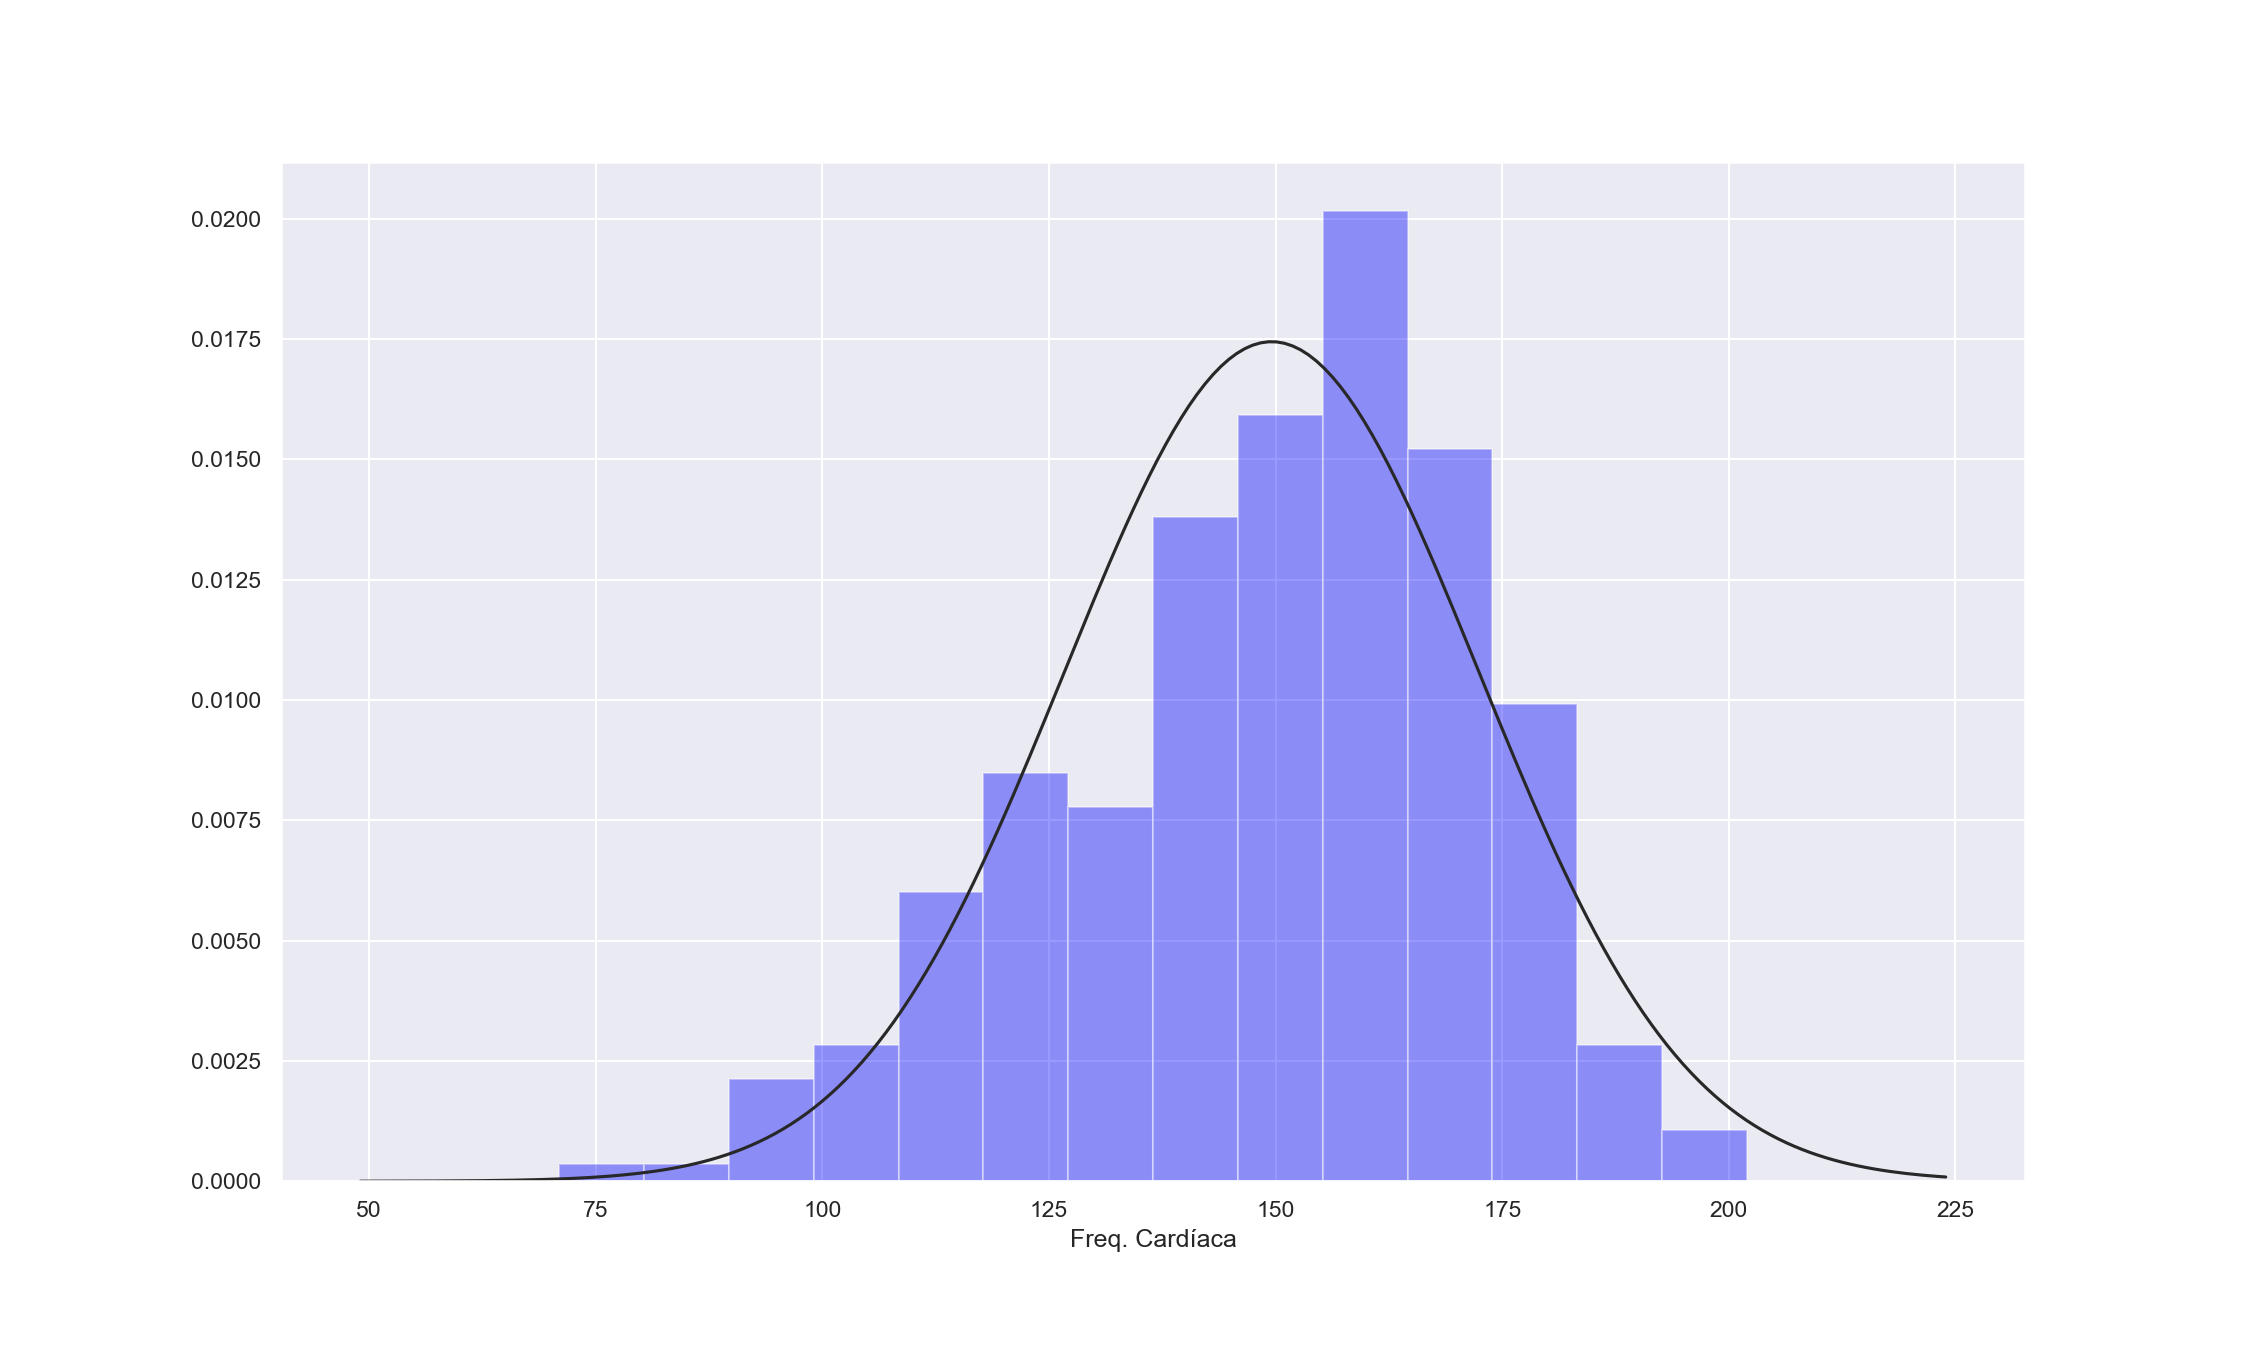
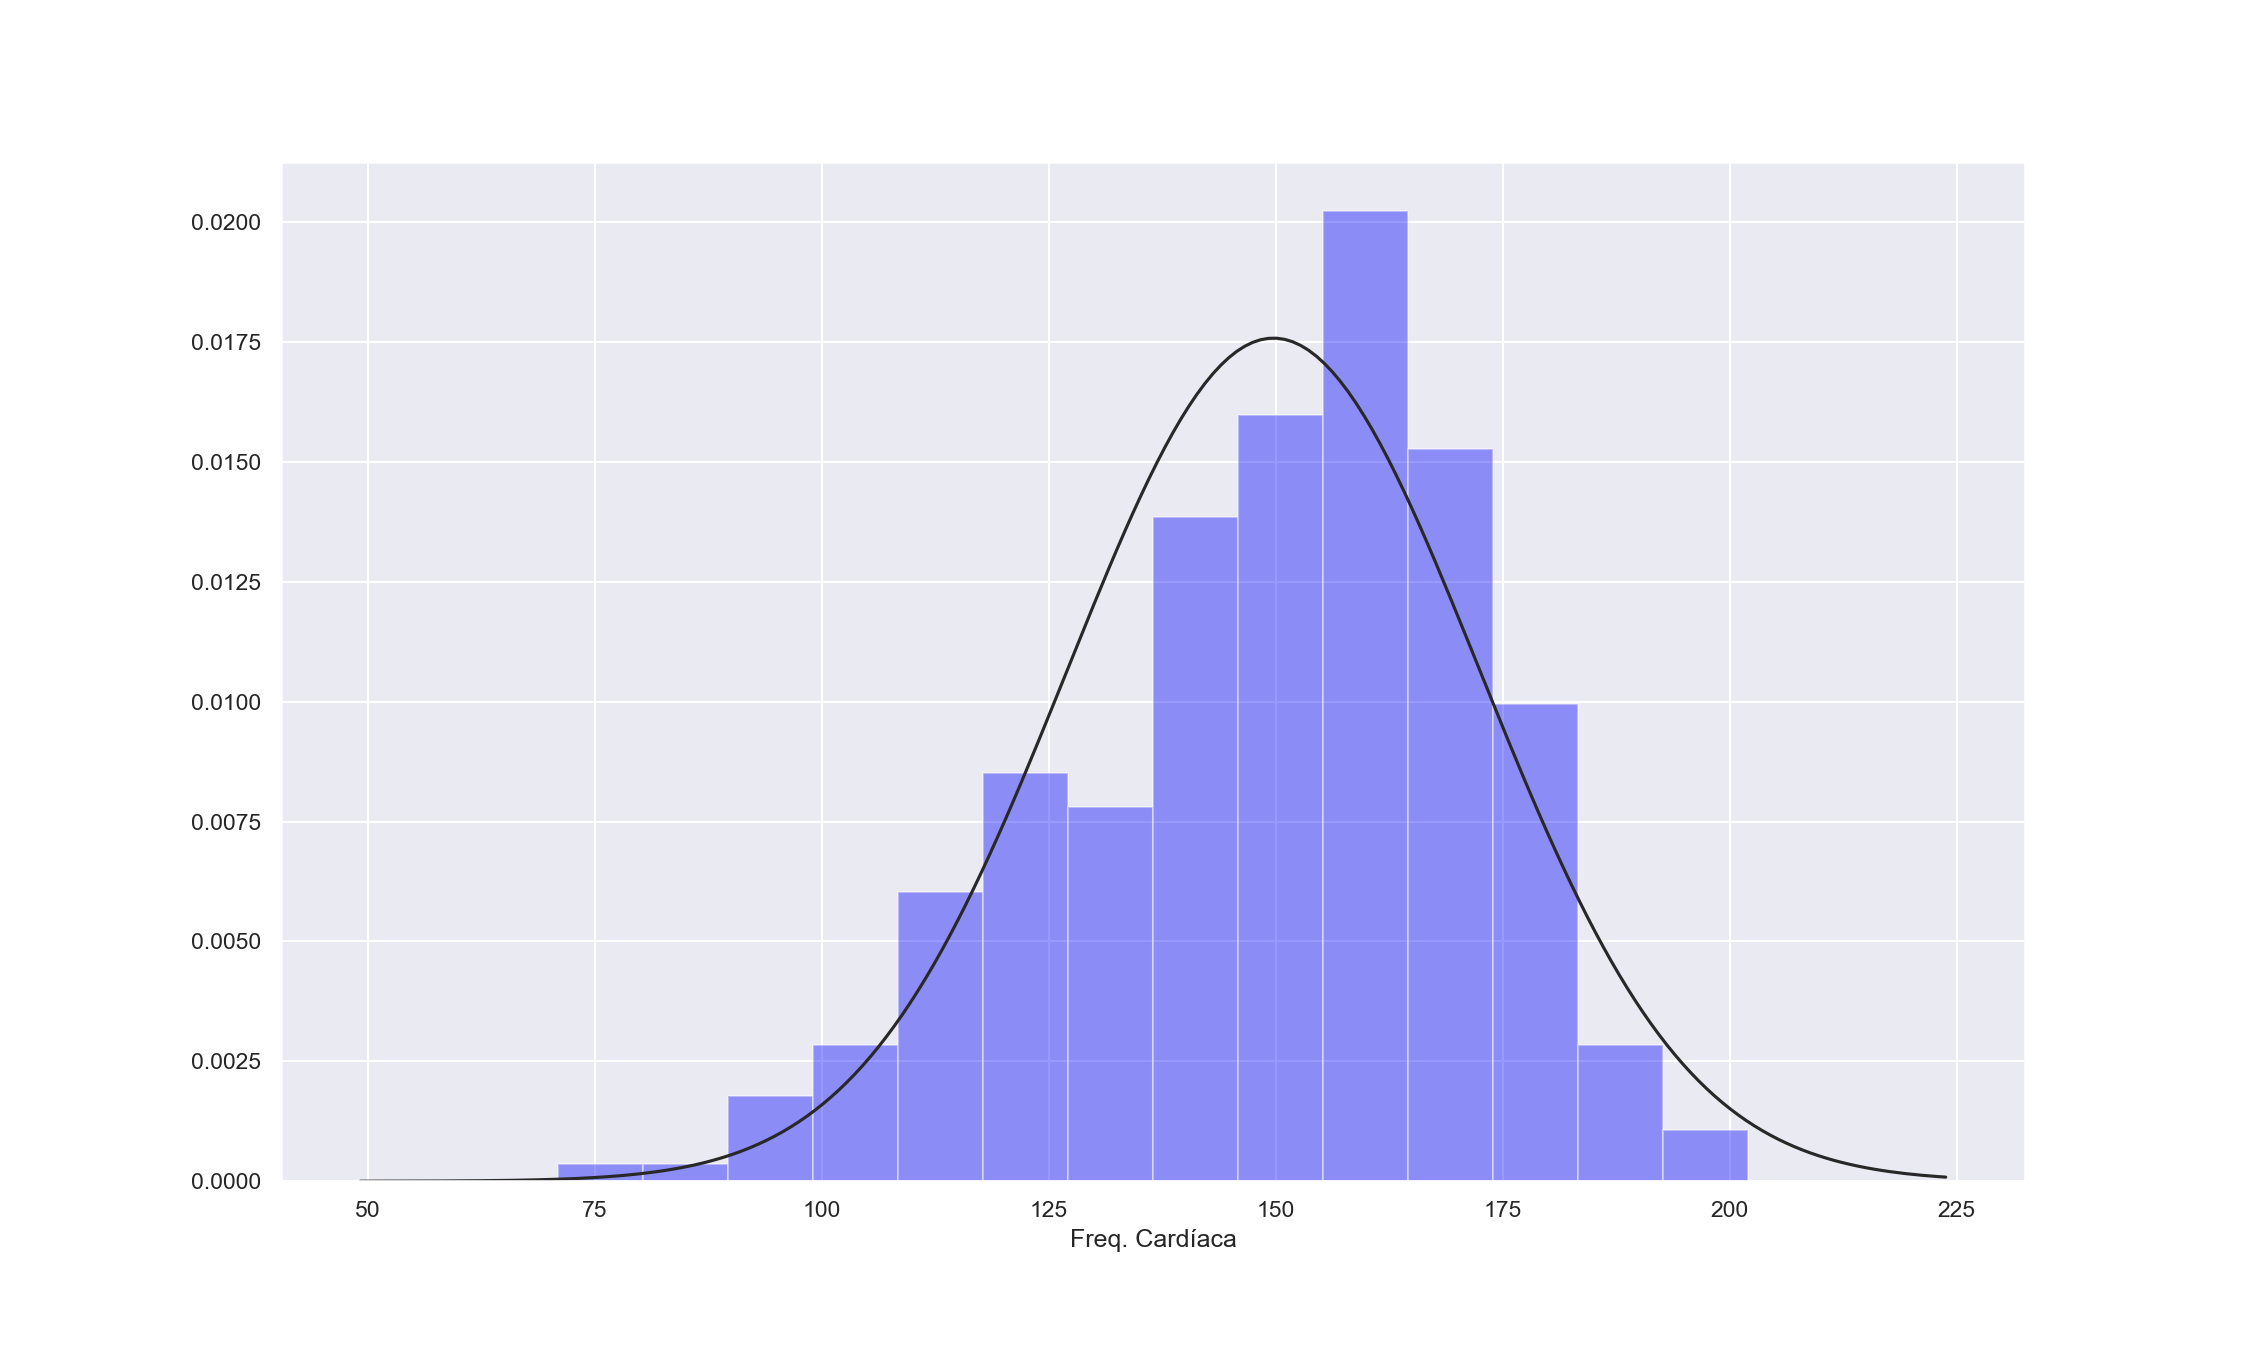
Created Visual Analysis to Consider Chart Exports, adjusted other functions

diff --git a/ML - TCC - Clusters/tcc_ml_analysis/visual_analysis.py b/ML - TCC - Clusters/tcc_ml_analysis/visual_analysis.py
@@ -1,0 +1,69 @@
+# -*- coding: utf-8 -*-
+"""
+Created on Tue Oct 23 22:26:01 2018
+
+@author: gabriel_henriques
+"""
+import matplotlib as mpl
+import matplotlib.pyplot as plt
+import numpy as np
+import seaborn as sns
+from scipy.stats import norm
+from pre_process import prepareDataForCharts
+
+# Fixed variables
+data_names = ['Idade', 'Colesterol', 'Freq. Cardíaca']
+data_columns = ['age', 'chol', 'thalach']
+
+# Set dpi of images to obtain a higher quality
+mpl.rc("savefig", dpi=150)
+sns.set(color_codes=True)
+fig = plt.figure(figsize=(15, 9))
+
+# Define a folder to save images
+def setPlotFolder(name):
+    return 'images/Plot_'+ name + '.png'
+
+# Export Matrices and Regression Plots
+def exportPlots(data, flag):
+    if(flag):
+        # Create Labels and define values for better visualization
+        prep_data = prepareDataForCharts(data)
+
+        # Generate Specific plots
+        exportCorrelationMatrix(data)
+        exportDataExploration(data)
+        exportAttributeAnalysis(prep_data)
+
+def exportAttributeAnalysis(data):
+    # Thalach Attribute vs Age with respect to Heart Disease
+    fig = sns.relplot(x="Idade", y="Freq. Cardíaca", kind="line", data=data, ci=None, hue="DCV", aspect=2)
+    fig.savefig(setPlotFolder("Freq_Idade"))
+
+
+def exportCorrelationMatrix(data):
+        # Calculate correlation
+        corr = data.corr()
+
+        # Plot correlation matrix
+        mask = np.zeros_like(corr, dtype=np.bool) # create mask to cover the upper triangle
+        mask[np.triu_indices_from(mask)] = True
+
+        sns.heatmap(corr, annot=True, mask=mask, linewidths=0.01)
+
+        fig.suptitle('Matriz de Correlação', fontsize=14)
+        fig.savefig(setPlotFolder("matriz_correlação"))
+
+def exportDataExploration(data):
+        # Generate a chart for each column specified on the constant data_columns
+        for i, z in zip(data_names, data_columns):
+            fig = plt.figure(figsize=(15, 9))
+            sns.distplot(data[z], fit=norm, axlabel=i, kde=False, color='blue')
+            fig.savefig(setPlotFolder(i))
+
+        # Regression Plot
+        #sns.lmplot(x="age", y="chol", hue="num", col="fbs", row="sex", data=data)
+        #sns.jointplot(x="age", y="chol", hue="num", data=data, kind="reg")
+
+        ##sns.distplot(data[att], fit=norm, axlabel=label, kde=False, color='blue')
+        #sns.distplot(data['chol'], fit=norm, axlabel='Colesterol', rug = True, bins=15, kde=False, color='blue')

diff --git a/ML - TCC - Clusters/tcc_ml_analysis/data_analysis.py b/ML - TCC - Clusters/tcc_ml_analysis/data_analysis.py
@@ -2,24 +2,14 @@
 """
 Created on Sun Oct 14 23:39:06 2018
 
-@author: strin
+@author: gabriel_henriques
 """
 import pandas as pd
-import matplotlib as mpl
-import matplotlib.pyplot as plt
 import numpy as np
-import seaborn as sns
-from scipy.stats import norm
-
-# Set dpi of images to obtain a higher quality
-mpl.rc("savefig", dpi=150)
-sns.set(color_codes=True)
+from pre_process import prepareDataForExcel
 
 def exportData(data, y_train, y_test, label):
-    exploreDF = data.copy()
-    exploreDF.drop(['cp', 'fbs', 'restecg', 'thalach', 'exang', 'oldpeak', 'slope', 'ca', 'thal', 'num'],
-                   axis=1,
-                   inplace=True)
+    exploreDF = prepareDataForExcel(data)
 
     data_description = exploreDF.describe()
     data_samples = data.head()
@@ -44,46 +34,6 @@ def exportData(data, y_train, y_test, label):
 
     writer.save()
 
-# Export Matrices and Regression Plots
-def exportPlots(data, flag):
-    if(flag):
-        exportCorrelationMatrix(data)
-        exportDataExploration(data)
-
-
-def exportCorrelationMatrix(data):
-        # Calculate correlation
-        corr = data.corr()
-
-        # Plot correlation matrix
-        fig = plt.figure(figsize=(15, 9))
-        mask = np.zeros_like(corr, dtype=np.bool) # create mask to cover the upper triangle
-        mask[np.triu_indices_from(mask)] = True
-
-        #sns.heatmap(corr, annot=True, mask=mask, linewidths=0.01)
-
-        #fig.suptitle('Correlation Matrix', fontsize=14)
-        #fig.savefig('correlation_matrix.png')
-
-def exportDataExploration(data):
-        data_names = ['Idade', 'Colesterol', 'Freq. Cardíaca', 'Teste Tálium']
-        data_columns = ['age', 'chol', 'thalach', 'thal']
-
-        for i, z in zip(data_names, data_columns):
-            fig = plt.figure(figsize=(15, 9))
-            sns.distplot(data[z], fit=norm, axlabel=i, kde=False, color='blue')
-            fig.savefig('images/Plot_'+ i + '.png')
-
-
-        #sns.lmplot(x="age", y="chol", hue="num", col="fbs", row="sex", data=data)
-        #sns.jointplot(x="age", y="chol", hue="num", data=data, kind="reg")
-
-        ##sns.distplot(data[att], fit=norm, axlabel=label, kde=False, color='blue')
-        #sns.distplot(data['chol'], fit=norm, axlabel='Colesterol', rug = True, bins=15, kde=False, color='blue')
-
-# Export Categorical
-def exportCategorial():
-    return True
 
 def exportMetrics():
     return True

diff --git a/ML - TCC - Clusters/tcc_ml_analysis/classifier.py b/ML - TCC - Clusters/tcc_ml_analysis/classifier.py
@@ -4,6 +4,7 @@ Created on Mon Oct  8 22:19:56 2018
 
 @author: Gabriel
 """
+# Libraries
 import pandas as pd
 import numpy as np
 import matplotlib.pyplot as plt
@@ -11,23 +12,21 @@ import seaborn as sns
 from sklearn.model_selection import train_test_split
 from sklearn.metrics import confusion_matrix, classification_report, mean_absolute_error
 from sklearn.model_selection import cross_val_score
-from sklearn.preprocessing import StandardScaler, normalize, MinMaxScaler
+from sklearn.preprocessing import MinMaxScaler
 from sklearn.naive_bayes import GaussianNB
 from sklearn.ensemble import VotingClassifier
-
-from pre_process import readData, cleanData, getFeatures
-from data_analysis import exportData, exportMetrics, exportPlots, calculateDiscrepancy
-
 from sklearn.linear_model import LogisticRegressionCV, LogisticRegression
 
+# Specific Files of the project
+from pre_process import readData, cleanData, getFeatures
+from data_analysis import exportData, exportMetrics
+from visual_analysis import exportPlots
 
 
 # Get the data, split labels and retrieve the features
 data = readData()
 cleanData(data)
 features, label = getFeatures(data)
-
-
 
 # Split the 'features' and the label data into training and testing sets
 X_train, X_test, y_train, y_test = train_test_split(features,
@@ -51,22 +50,6 @@ exportMetrics()
 #df_normalized = pd.DataFrame(train_scaled)
 #df_normalized2 = pd.DataFrame(test_scaled)
 
-data2 = data.copy()
-
-data2['sex'] = data2['sex'].apply(lambda x: 'Mulher' if x == 0 else 'Homem')
-data2['DCV'] = data2['num'].apply(lambda x: 'Sim' if x == 1 else 'Não')
-data2['Glicemia Jejum'] = data2['fbs'].apply(lambda x: '> 120 mg/dl' if x == 1 else '< 120mg/dl')
-
-#g = sns.lmplot(x="age", y="chol", hue="DCV", col="Glicemia Jejum", row="sex", data=data)
-#g = (g.set_axis_labels("Idade", "Colesterol"))
-data3 = data[data.num > 0 ]
-sns.jointplot(x="age", y="chol", data=data, kind="reg")
-
-#sns.pairplot(data, hue='num', size=1.5)
-
-# Freq. max.
-g = sns.relplot(x="age", y="thalach", kind="line", data=data, ci=None, style="num" )
-g.fig.autofmt_xdate()
 
 
 

diff --git a/ML - TCC - Clusters/tcc_ml_analysis/pre_process.py b/ML - TCC - Clusters/tcc_ml_analysis/pre_process.py
@@ -36,3 +36,21 @@ def getFeatures(df):
     # Predict Attribute (label) - Heart Disease
     label = df['num']
     return features, label
+
+def prepareDataForCharts(data):
+    data2 = data.copy()
+
+    data2['sex'] = data2['sex'].apply(lambda x: 'Mulher' if x == 0 else 'Homem')
+    data2['Idade'] = data2['age']
+    data2['Freq. Cardíaca'] = data2['thalach']
+    data2['DCV'] = data2['num'].apply(lambda x: 'Sim' if x == 1 else 'Não')
+    data2['Glicemia Jejum'] = data2['fbs'].apply(lambda x: '> 120 mg/dl' if x == 1 else '< 120mg/dl')
+
+    return data2
+
+def prepareDataForExcel(data):
+    exploreDF = data.copy()
+    exploreDF.drop(['cp', 'fbs', 'restecg', 'exang', 'oldpeak', 'slope', 'ca', 'thal', 'num'],
+                   axis=1,
+                   inplace=True)
+    return exploreDF
